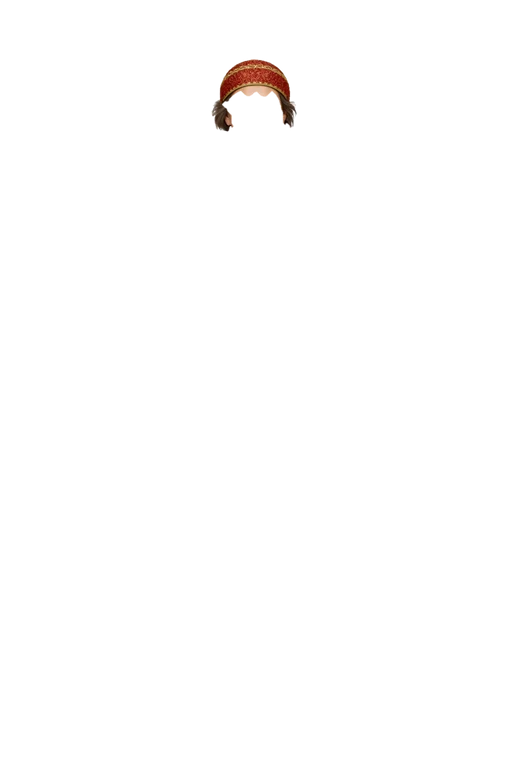
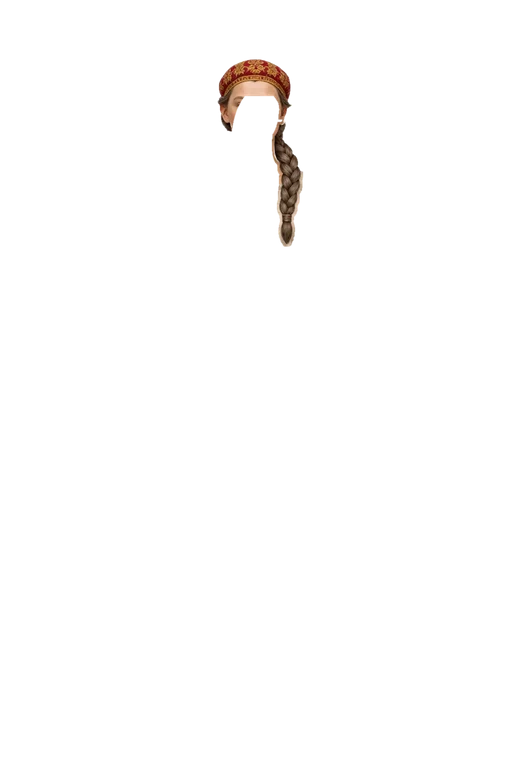
Ženské čepice přegenerované (1. část): brokátová copánek/ofina, černý baret bez/copánek/kudrnaté — s vlasy pod čepicí, bez holé lebky
Claude-Session: https://claude.ai/code/session_01Q25kmxKucwLhnUcj4Ap4v4

Changed region(s): [[0.4062, 0.0625, 0.5938, 0.3438]]

diff --git a/nastroje/opravy/cepice2.py b/nastroje/opravy/cepice2.py
@@ -1,0 +1,37 @@
+"""Čepice podle účesu z přegenerovaného obrázku: vrstva = čepice + vlasy pod ní (z obrázku), jen v oblasti masky a vlasů.
+Vybere variantu, u které nevykukuje holá lebka těla nad čepicí."""
+import sys, glob, numpy as np, cv2
+from PIL import Image
+from scipy import ndimage
+D = "/home/claude/kralovske-stezky-grafika/img/postava/"
+IN = "/mnt/user-data/outputs/ks-in/"
+def vrstva(f, sx, vl):
+    S = np.array(Image.open(f).convert("RGB").resize((1024, 1536), Image.LANCZOS))
+    M = np.array(Image.open(IN + f"ksmask-cepice-{sx}-{vl}.png").convert("L").resize((1024, 1536))) > 127
+    H = np.array(Image.open(D + f"vlasy-{sx}-{vl}.webp").convert("RGBA"))[..., 3] > 30 if vl != "bez" else np.zeros_like(M)
+    obl = (M | cv2.dilate(H.astype(np.uint8), np.ones((9, 9), np.uint8)) > 0)
+    obl[560:] = False
+    pozadi = S.min(-1) > 236
+    lab, n = ndimage.label(pozadi); okraj = set(np.unique(np.r_[lab[0], lab[:, 0], lab[:, -1]])) - {0}; pozadi = np.isin(lab, list(okraj))
+    a = obl & ~ndimage.binary_dilation(pozadi, iterations=1)
+    # obličej (mimo masku i vlasy) zůstane z těla
+    a = cv2.morphologyEx(a.astype(np.uint8), cv2.MORPH_OPEN, np.ones((3, 3), np.uint8)) > 0
+    lab, n = ndimage.label(a); vel = ndimage.sum(a, lab, range(1, n + 1)); a = np.isin(lab, [i + 1 for i, v in enumerate(vel) if v > 400])
+    L = np.zeros((1536, 1024, 4), np.uint8); L[..., :3] = S; L[..., 3] = (ndimage.gaussian_filter(a.astype(np.float32), .7) * 255).clip(0, 255).astype(np.uint8)
+    T = np.array(Image.open(D + f"postava-telo-{sx}.webp").convert("RGBA"))[..., 3] > 30
+    lebka = T.copy(); lebka[200:] = False                      # temeno těla (nad čelem)
+    holo = int((lebka & ~a).sum())
+    return L, holo
+def vyber(sx, slug, vl, soubory):
+    best = None
+    for f in soubory:
+        L, holo = vrstva(f, sx, vl)
+        print(" ", f.split("/")[-1], "holá lebka px:", holo)
+        if best is None or holo < best[1]: best = (L, holo, f)
+    L, holo, f = best
+    nazev = f"helma-{slug}-{sx}-{vl}" if sx == "zena" else f"helma-{slug}-{vl}"
+    im = Image.fromarray(L, "RGBA"); im.save(D + nazev + ".webp", "WEBP", quality=92); im.resize((512, 768), Image.LANCZOS).save(D + nazev + "-m.webp", "WEBP", quality=88)
+    return nazev, f.split("/")[-1], holo
+if __name__ == "__main__":
+    sx, slug, vl = sys.argv[1:4]
+    print(vyber(sx, slug, vl, sys.argv[4:]))
